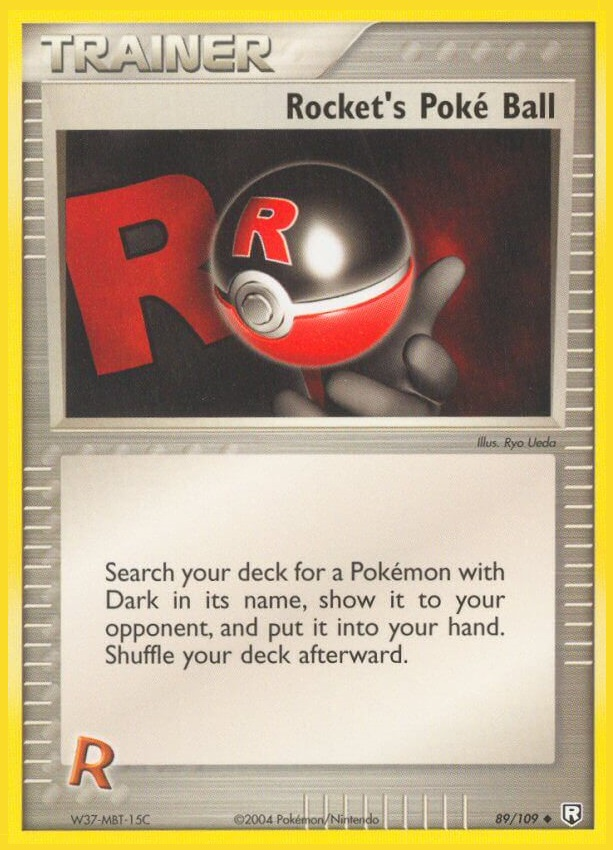
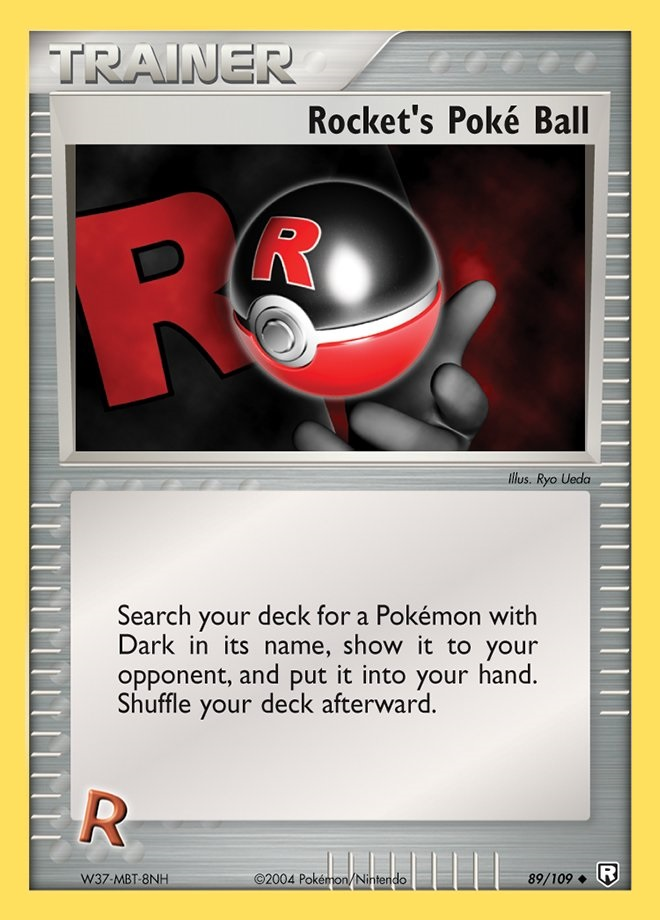
more

diff --git a/major-events/2006/global-nationals-results.html b/major-events/2006/global-nationals-results.html
@@ -219,7 +219,7 @@
         <div class="country-content">
             <ol class='country-indiv'>
                 <h4 style='margin-top: 5px;margin-bottom: 5px;'>Argentina Nationals</h4>
-                <!-- <h4 style='margin-bottom: 15px;font-weight: 500;'>- -</h4> -->
+                <h4 style='margin-bottom: 15px;font-weight: 500;'>June 25</h4>
                 <!-- <h4 style='margin-bottom: 5px;font-weight: 500;'>157 Players</h4> -->
                 <!-- <h4 style='margin-bottom: 15px;font-weight: 500;'>Diamond & Pearl - HS: Unleashed</h4> -->
                 <li class='player-list-hover'>
@@ -278,7 +278,7 @@
         <div class="country-content">
             <ol class='country-indiv'>
                 <h4 style='margin-top: 5px;margin-bottom: 5px;'>Australia Nationals</h4>
-                <!-- <h4 style='margin-bottom: 15px;font-weight: 500;'>- -</h4> -->
+                <h4 style='margin-bottom: 15px;font-weight: 500;'>June 24</h4>
                 <!-- <h4 style='margin-bottom: 5px;font-weight: 500;'>157 Players</h4> -->
                 <!-- <h4 style='margin-bottom: 15px;font-weight: 500;'>Diamond & Pearl - HS: Unleashed</h4> -->
                 <li class='player-list-hover'>
@@ -381,7 +381,7 @@
         <div class="country-content">
             <ol class='country-indiv'>
                 <h4 style='margin-top: 5px;margin-bottom: 5px;'>Belgium Nationals</h4>
-                <!-- <h4 style='margin-bottom: 15px;font-weight: 500;'>- -</h4> -->
+                <h4 style='margin-bottom: 15px;font-weight: 500;'>June 24</h4>
                 <!-- <h4 style='margin-bottom: 5px;font-weight: 500;'>157 Players</h4> -->
                 <!-- <h4 style='margin-bottom: 15px;font-weight: 500;'>Diamond & Pearl - HS: Unleashed</h4> -->
                 <li class='player-list-hover'>
@@ -543,7 +543,7 @@
         <div class="country-content">
             <ol class='country-indiv'>
                 <h4 style='margin-top: 5px;margin-bottom: 5px;'>Chile Nationals</h4>
-                <!-- <h4 style='margin-bottom: 15px;font-weight: 500;'>- -</h4> -->
+                <h4 style='margin-bottom: 15px;font-weight: 500;'>June 24</h4>
                 <!-- <h4 style='margin-bottom: 5px;font-weight: 500;'>157 Players</h4> -->
                 <!-- <h4 style='margin-bottom: 15px;font-weight: 500;'>Diamond & Pearl - HS: Unleashed</h4> -->
                 <li class='player-list-hover'>
@@ -661,7 +661,7 @@
         <div class="country-content">
             <ol class='country-indiv'>
                 <h4 style='margin-top: 5px;margin-bottom: 5px;'>France Nationals</h4>
-                <!-- <h4 style='margin-bottom: 15px;font-weight: 500;'>- -</h4> -->
+                <h4 style='margin-bottom: 15px;font-weight: 500;'>June 4</h4>
                 <!-- <h4 style='margin-bottom: 5px;font-weight: 500;'>157 Players</h4> -->
                 <!-- <h4 style='margin-bottom: 15px;font-weight: 500;'>Diamond & Pearl - HS: Unleashed</h4> -->
                 <li class='player-list-hover'>
@@ -722,7 +722,7 @@
         <div class="country-content">
             <ol class='country-indiv'>
                 <h4 style='margin-top: 5px;margin-bottom: 5px;'>Italy Nationals</h4>
-                <!-- <h4 style='margin-bottom: 15px;font-weight: 500;'>- -</h4> -->
+                <h4 style='margin-bottom: 15px;font-weight: 500;'>June  25</h4>
                 <!-- <h4 style='margin-bottom: 5px;font-weight: 500;'>157 Players</h4> -->
                 <!-- <h4 style='margin-bottom: 15px;font-weight: 500;'>Diamond & Pearl - HS: Unleashed</h4> -->
                 <li class='player-list-hover'>
@@ -899,7 +899,7 @@
         <div class="country-content">
             <ol class='country-indiv'>
                 <h4 style='margin-top: 5px;margin-bottom: 5px;'>Netherlands Nationals</h4>
-                <!-- <h4 style='margin-bottom: 15px;font-weight: 500;'>- -</h4> -->
+                <h4 style='margin-bottom: 15px;font-weight: 500;'>May 28</h4>
                 <!-- <h4 style='margin-bottom: 5px;font-weight: 500;'>157 Players</h4> -->
                 <!-- <h4 style='margin-bottom: 15px;font-weight: 500;'>Diamond & Pearl - HS: Unleashed</h4> -->
                 <li class='player-list-hover'>
@@ -958,7 +958,7 @@
         <div class="country-content">
             <ol class='country-indiv'>
                 <h4 style='margin-top: 5px;margin-bottom: 5px;'>Philippines Nationals</h4>
-                <!-- <h4 style='margin-bottom: 15px;font-weight: 500;'>- -</h4> -->
+                <h4 style='margin-bottom: 15px;font-weight: 500;'>July 29</h4>
                 <!-- <h4 style='margin-bottom: 5px;font-weight: 500;'>157 Players</h4> -->
                 <!-- <h4 style='margin-bottom: 15px;font-weight: 500;'>Diamond & Pearl - HS: Unleashed</h4> -->
                 <li class='player-list-hover'>
@@ -1017,7 +1017,7 @@
         <div class="country-content">
             <ol class='country-indiv'>
                 <h4 style='margin-top: 5px;margin-bottom: 5px;'>Singapore Nationals</h4>
-                <!-- <h4 style='margin-bottom: 15px;font-weight: 500;'>- -</h4> -->
+                <h4 style='margin-bottom: 15px;font-weight: 500;'>June 11</h4>
                 <!-- <h4 style='margin-bottom: 5px;font-weight: 500;'>157 Players</h4> -->
                 <!-- <h4 style='margin-bottom: 15px;font-weight: 500;'>Diamond & Pearl - HS: Unleashed</h4> -->
                 <li class='player-list-hover'>
@@ -1076,7 +1076,7 @@
         <div class="country-content">
             <ol class='country-indiv'>
                 <h4 style='margin-top: 5px;margin-bottom: 5px;'>Sweden Nationals</h4>
-                <!-- <h4 style='margin-bottom: 15px;font-weight: 500;'>- -</h4> -->
+                <h4 style='margin-bottom: 15px;font-weight: 500;'>April 29</h4>
                 <!-- <h4 style='margin-bottom: 5px;font-weight: 500;'>157 Players</h4> -->
                 <!-- <h4 style='margin-bottom: 15px;font-weight: 500;'>Diamond & Pearl - HS: Unleashed</h4> -->
                 <li class='player-list-hover'>
@@ -1135,7 +1135,7 @@
         <div class="country-content">
             <ol class='country-indiv'>
                 <h4 style='margin-top: 5px;margin-bottom: 5px;'>United Kingdom Nationals</h4>
-                <!-- <h4 style='margin-bottom: 15px;font-weight: 500;'>- -</h4> -->
+                <h4 style='margin-bottom: 15px;font-weight: 500;'>June 10</h4>
                 <!-- <h4 style='margin-bottom: 5px;font-weight: 500;'>157 Players</h4> -->
                 <!-- <h4 style='margin-bottom: 15px;font-weight: 500;'>Diamond & Pearl - HS: Unleashed</h4> -->
                 <li class='player-list-hover'>
@@ -1194,7 +1194,7 @@
         <div class="country-content">
             <ol class='country-indiv'>
                 <h4 style='margin-top: 5px;margin-bottom: 5px;'>United Kingdom Nationals</h4>
-                <!-- <h4 style='margin-bottom: 15px;font-weight: 500;'>- -</h4> -->
+                <h4 style='margin-bottom: 15px;font-weight: 500;'>June 10</h4>
                 <!-- <h4 style='margin-bottom: 5px;font-weight: 500;'>157 Players</h4> -->
                 <!-- <h4 style='margin-bottom: 15px;font-weight: 500;'>Diamond & Pearl - HS: Unleashed</h4> -->
                 <li class='player-list-hover'>
@@ -1253,7 +1253,7 @@
         <div class="country-content">
             <ol class='country-indiv'>
                 <h4 style='margin-top: 5px;margin-bottom: 5px;'>United Kingdom Nationals</h4>
-                <!-- <h4 style='margin-bottom: 15px;font-weight: 500;'>- -</h4> -->
+                <h4 style='margin-bottom: 15px;font-weight: 500;'>June 10</h4>
                 <!-- <h4 style='margin-bottom: 5px;font-weight: 500;'>157 Players</h4> -->
                 <!-- <h4 style='margin-bottom: 15px;font-weight: 500;'>Diamond & Pearl - HS: Unleashed</h4> -->
                 <li class='player-list-hover'>

diff --git a/decks-by-era/2018/bkt-ces.html b/decks-by-era/2018/bkt-ces.html
@@ -231,17 +231,22 @@
                     <li><a href='#greninja'>Greninja
                             <img class='gen6-sprite' src='../../assets/sprites-gen6-7/greninja.png' />
                         </a></li>
+                    <li><a href='#hooh-salazzle'>Ho-oh Salazzle
+                            <img class='gen6-sprite' src='../../assets/sprites-gen6-7/ho-oh.png' />
+                            <img class='gen6-sprite' src='../../assets/sprites-gen6-7/salazzle.png' />
+                        </a></li>
                     <li><a href='#mally'>Malamar
                             <img class='gen6-sprite' src='../../assets/sprites-gen6-7/malamar.png' />
                             <img class='gen6-sprite' src='../../assets/sprites-gen6-7/marshadow.png' />
                         </a></li>
-                    <li><a href='#quaza'><p>Rayquaza <span class='italic'>GX</span><span class='builds-num'> 2</span></p>
-                            <img class='gen6-sprite' src='../../assets/sprites-gen6-7/rayquaza.png' />
-                        </a></li>
+                    
                 </ul>
             </div>
             <div class='era-toc-right'>
                 <ul>
+                    <li><a href='#quaza'><p>Rayquaza <span class='italic'>GX</span><span class='builds-num'> 2</span></p>
+                        <img class='gen6-sprite' src='../../assets/sprites-gen6-7/rayquaza.png' />
+                    </a></li>
                     <li><a href='#ultrabb'>Ultra Beasts
                             <img class='gen6-sprite' src='../../assets/sprites-gen6-7/naganadel.png' />
                             <img class='gen6-sprite' src='../../assets/sprites-gen6-7/stakataka.png' />
@@ -984,6 +989,87 @@
         </div>
         <div class='deck-description '>
             <p>Source: Martin Janouš - Top 16 Worlds</p>
+            <!-- <p>Description coming soon...</p> -->
+        </div>
+        <br>
+
+        <h3 class='format' id='hooh-salazzle'>Ho-oh Salazzle</h3>
+        <div class='deck-box ' style='background-image:url(../../../assets/fire-bg.png);'>
+            <div class='pokemon-card2'>
+                <img class='pok-card-small2 break-pokemon' loading='lazy' src='../../assets/cards/2018-17/ho-oh-gx.png'>
+                <img class='num-2' alt='number' loading='lazy' src='../../assets/04.png'>
+            </div>
+            <div class='pokemon-card2'>
+                <img class='pok-card-small2 break-pokemon' loading='lazy' src='../../assets/cards/2018-17/salazzle-gx.png'>
+                <img class='num-2' alt='number' loading='lazy' src='../../assets/02.png'>
+            </div>
+            <div class='pokemon-card2'>
+                <img class='pok-card-small2 break-pokemon' loading='lazy' src='../../assets/cards/2018-17/salandit-live-coal.png'>
+                <img class='num-2' alt='number' loading='lazy' src='../../assets/02.png'>
+            </div>
+            <div class='pokemon-card2'>
+                <img class='pok-card-small2 break-pokemon' loading='lazy' src='../../assets/cards/2018-17/turtonator-gx.png'>
+                <img class='num-2' alt='number' loading='lazy' src='../../assets/01.png'>
+            </div>
+            <div class='pokemon-card2'>
+                <img class='pok-card-small2 break-pokemon' loading='lazy' src='../../assets/cards/2018-17/tapu-lele-gx.png'>
+                <img class='num-2' alt='number' loading='lazy' src='../../assets/04.png'>
+            </div>
+            <div class='pokemon-card2'>
+                <img class='pok-card-small2 break-pokemon' loading='lazy' src='../../assets/cards/2018-17/tapu-koko-flying-flip.png'>
+                <img class='num-2' alt='number' loading='lazy' src='../../assets/01.png'>
+            </div>
+            <div class='pokemon-card2'>
+                <img class='pok-card-small2 break-pokemon' loading='lazy' src='../../assets/cards/2018-17/shining-lugia.png'>
+                <img class='num-2' alt='number' loading='lazy' src='../../assets/01.png'>
+            </div>
+            <div class='pokemon-card2'>
+                <img class='pok-card-small2 break-pokemon' loading='lazy' src='../../assets/cards/2018-17/cynthia.png'>
+                <img class='num-2' alt='number' loading='lazy' src='../../assets/04.png'>
+            </div>
+            <div class='pokemon-card2'>
+                <img class='pok-card-small2 break-pokemon' loading='lazy' src='../../assets/cards/2018-17/kiawe.png'>
+                <img class='num-2' alt='number' loading='lazy' src='../../assets/04.png'>
+            </div>
+            <div class='pokemon-card2'>
+                <img class='pok-card-small2 break-pokemon' loading='lazy' src='../../assets/cards/2018-17/guzma.png'>
+                <img class='num-2' alt='number' loading='lazy' src='../../assets/04.png'>
+            </div>
+            <div class='pokemon-card2'>
+                <img class='pok-card-small2 break-pokemon' loading='lazy' src='../../assets/cards/2018-17/ultra-ball.png'>
+                <img class='num-2' alt='number' loading='lazy' src='../../assets/04.png'>
+            </div>
+            <div class='pokemon-card2'>
+                <img class='pok-card-small2 break-pokemon' loading='lazy' src='../../assets/cards/2018-17/nest-ball.png'>
+                <img class='num-2' alt='number' loading='lazy' src='../../assets/04.png'>
+            </div>
+            <div class='pokemon-card2'>
+                <img class='pok-card-small2 break-pokemon' loading='lazy' src='../../assets/cards/2018-17/acro-bike.png'>
+                <img class='num-2' alt='number' loading='lazy' src='../../assets/03.png'>
+            </div>
+            <div class='pokemon-card2'>
+                <img class='pok-card-small2 break-pokemon' loading='lazy' src='../../assets/cards/2018-17/switch.png'>
+                <img class='num-2' alt='number' loading='lazy' src='../../assets/02.png'>
+            </div>
+            <div class='pokemon-card2'>
+                <img class='pok-card-small2 break-pokemon' loading='lazy' src='../../assets/cards/2018-17/escape-rope.png'>
+                <img class='num-2' alt='number' loading='lazy' src='../../assets/01.png'>
+            </div>
+            <div class='pokemon-card2'>
+                <img class='pok-card-small2 break-pokemon' loading='lazy' src='../../assets/cards/2018-17/choice-band.png'>
+                <img class='num-2' alt='number' loading='lazy' src='../../assets/03.png'>
+            </div>
+            <div class='pokemon-card2'>
+                <img class='pok-card-small2 break-pokemon' loading='lazy' src='../../assets/cards/2018-17/wishful-baton.png'>
+                <img class='num-2' alt='number' loading='lazy' src='../../assets/03.png'>
+            </div>
+            <div class='pokemon-card2'>
+                <img class='pok-card-small2 break-pokemon' loading='lazy' src='../../assets/cards/energy/energy-fire.png'>
+                <img class='num-2' alt='number' loading='lazy' src='../../assets/13.png'>
+            </div>
+        </div>
+        <div class='deck-description '>
+            <p>Source: Anthony Bruno - Top 64 Philadelphia Regionals</p>
             <!-- <p>Description coming soon...</p> -->
         </div>
         <br>

diff --git a/decks-by-era/2006/hl-hp.html b/decks-by-era/2006/hl-hp.html
@@ -704,8 +704,8 @@
                 <img class='num-2' alt='number' loading='lazy' src='../../assets/02.png'>
             </div>
             <div class='pokemon-card2'>
-                <img class='pok-card-small2 zoomed' loading='lazy'
-                    src='../../assets/cards/2004-2006/rockets-poke-ball.png'>
+                <img class='pok-card-small2 zoomed radius-card' loading='lazy'
+                    src='../../assets/cards/2004-2006/tr.089.rockets_poke_ball.jpg'>
                 <img class='num-2' alt='number' loading='lazy' src='../../assets/01.png'>
             </div>
             <div class='pokemon-card2'>
@@ -819,8 +819,8 @@
                 <img class='num-2' alt='number' loading='lazy' src='../../assets/02.png'>
             </div>
             <div class='pokemon-card2'>
-                <img class='pok-card-small2 zoomed' loading='lazy'
-                    src='../../assets/cards/2004-2006/rockets-poke-ball.png'>
+                <img class='pok-card-small2 zoomed radius-card' loading='lazy'
+                    src='../../assets/cards/2004-2006/tr.089.rockets_poke_ball.jpg'>
                 <img class='num-2' alt='number' loading='lazy' src='../../assets/02.png'>
             </div>
             <div class='pokemon-card2'>
@@ -1129,8 +1129,8 @@
                 <img class='num-2' alt='number' loading='lazy' src='../../assets/04.png'>
             </div>
             <div class='pokemon-card2'>
-                <img class='pok-card-small2 zoomed' loading='lazy'
-                    src='../../assets/cards/2004-2006/rockets-poke-ball.png'>
+                <img class='pok-card-small2 zoomed radius-card' loading='lazy'
+                    src='../../assets/cards/2004-2006/tr.089.rockets_poke_ball.jpg'>
                 <img class='num-2' alt='number' loading='lazy' src='../../assets/04.png'>
             </div>
             <div class='pokemon-card2'>

diff --git a/major-events/2005/05-nats.js b/major-events/2005/05-nats.js
@@ -376,8 +376,9 @@ let juniors = [
                 numImg: '../../assets/01.png',
             },
             {
-                cardImg: '../../assets/cards/2004-2006/rockets-poke-ball.png',
+                cardImg: '../../assets/cards/2004-2006/tr.089.rockets_poke_ball.jpg',
                 numImg: '../../assets/04.png',
+                radiusCard: true
             },
             {
                 cardImg: '../../assets/cards/2004-2006/dual-ball-old.png',
@@ -735,8 +736,9 @@ let fiveEvent = [
                 numImg: '../../assets/02.png'
             },
             {
-                cardImg: '../../assets/cards/2004-2006/rockets-poke-ball.png',
-                numImg: '../../assets/02.png'
+                cardImg: '../../assets/cards/2004-2006/tr.089.rockets_poke_ball.jpg',
+                numImg: '../../assets/02.png',
+                radiusCard: true
             },
             {
                 cardImg: '../../assets/cards/2004-2006/pokemon-retriever.png',
@@ -906,8 +908,9 @@ let sixEvent = [
                 numImg: '../../assets/02.png'
             },
             {
-                cardImg: '../../assets/cards/2004-2006/rockets-poke-ball.png',
-                numImg: '../../assets/02.png'
+                cardImg: '../../assets/cards/2004-2006/tr.089.rockets_poke_ball.jpg',
+                numImg: '../../assets/02.png',
+                radiusCard: true
             },
             {
                 cardImg: '../../assets/cards/2004-2006/rare-candy-e-reader.png',

diff --git a/worlds/2006/2006-worlds.js b/worlds/2006/2006-worlds.js
@@ -494,7 +494,7 @@ let masters = [
         numImg: '../../assets/04.png'
       },
       {
-        cardImg: '../../assets/cards/2004-2006/rockets-poke-ball.png',
+        cardImg: '../../assets/cards/2004-2006/tr.089.rockets_poke_ball.jpg',
         numImg: '../../assets/04.png'
       },
       {
@@ -1118,7 +1118,7 @@ let masters = [
         numImg: '../../assets/02.png'
       },
       {
-        cardImg: '../../assets/cards/2004-2006/rockets-poke-ball.png',
+        cardImg: '../../assets/cards/2004-2006/tr.089.rockets_poke_ball.jpg',
         numImg: '../../assets/01.png'
       },
       {
@@ -1420,7 +1420,7 @@ let masters = [
         numImg: '../../assets/04.png'
       },
       {
-        cardImg: '../../assets/cards/2004-2006/rockets-poke-ball.png',
+        cardImg: '../../assets/cards/2004-2006/tr.089.rockets_poke_ball.jpg',
         numImg: '../../assets/04.png'
       },
       {
@@ -1776,7 +1776,7 @@ let masters = [
         numImg: '../../assets/01.png'
       },
       {
-        cardImg: '../../assets/cards/2004-2006/rockets-poke-ball.png',
+        cardImg: '../../assets/cards/2004-2006/tr.089.rockets_poke_ball.jpg',
         numImg: '../../assets/01.png'
       },
       {

diff --git a/decks-by-era/2005/rs-em.html b/decks-by-era/2005/rs-em.html
@@ -2461,7 +2461,7 @@
                 <img class='num-2' alt='number' loading='lazy' src='../../assets/01.png'>
             </div>
             <div class='pokemon-card2'>
-                <img class='pok-card-small2 zoomed' loading='lazy' src='../../assets/cards/2004-2006/rockets-poke-ball.png'>
+                <img class='pok-card-small2 zoomed radius-card' loading='lazy' src='../../assets/cards/2004-2006/tr.089.rockets_poke_ball.jpg'>
                 <img class='num-2' alt='number' loading='lazy' src='../../assets/01.png'>
             </div>
             <div class='pokemon-card2'>
@@ -2773,7 +2773,7 @@
                 <img class='num-2' alt='number' loading='lazy' src='../../assets/02.png'>
             </div>
             <div class='pokemon-card2'>
-                <img class='pok-card-small2  zoomed' loading='lazy' src='../../assets/cards/2004-2006/rockets-poke-ball.png'>
+                <img class='pok-card-small2 radius-card zoomed' loading='lazy' src='../../assets/cards/2004-2006/tr.089.rockets_poke_ball.jpg'>
                 <img class='num-2' alt='number' loading='lazy' src='../../assets/02.png'>
             </div>
             <div class='pokemon-card2'>

diff --git a/archive-updates/all.html b/archive-updates/all.html
@@ -175,8 +175,9 @@
                     <p>• <a href='../decks-by-era/1999/bs-fossil#arcmar' target="_blank">1999 BS-FO</a> Magmar Arcanine (Build 1) - Jason Klaczynski</p>
                     <p>• <a href='../decks-by-era/1999/bs-fossil#scyther' target="_blank">1999 BS-FO</a> Scyther Hitmonchan - Jason Klaczynski</p>
                     <p>• <a href='../decks-by-era/1999/bs-fossil#magchanduo' target="_blank">1999 BS-FO</a> Magmar Hitmonchan - Jason Klaczynski</p>
-                    <p>• <a href='../decks-by-era/2008/hp-md.html#feonortar' target="_blank">2008 HP-MD</a> Magmortar Leafeon (Build 2)</p>
+                    <p>• <a href='../decks-by-era/2008/hp-md#feonortar' target="_blank">2008 HP-MD</a> Magmortar Leafeon (Build 2)</p>
                     <p>• <a href='../decks-by-era/2018/bkt-fli#gourgeist' target="_blank">2018 BKT-FLI</a> Gourgeist</p>
+                    <p>• <a href='../decks-by-era/2018/bkt-ces#hooh-salazzle' target="_blank">2018 BKT-CES</a> Ho-oh Salazzle</p>
                     <p>• <a href='../decks-by-era/2019/sum-teu#dark-ninetales' target="_blank">2019 SUM-TEU</a> Dark Alolan Ninetales</p>
 
                     <br>

diff --git a/major-events/2006/06-nats.js b/major-events/2006/06-nats.js
@@ -302,8 +302,9 @@ let juniors = [
               numImg: '../../assets/02.png'
             },
             {
-              cardImg: '../../assets/cards/2004-2006/rockets-poke-ball.png',
-              numImg: '../../assets/02.png'
+              cardImg: '../../assets/cards/2004-2006/tr.089.rockets_poke_ball.jpg',
+              numImg: '../../assets/02.png',
+              radiusCard: true
             },
             {
               cardImg: '../../assets/cards/2004-2006/ancient-tech-machine-rock.png',

diff --git a/worlds/2005/2005-worlds.js b/worlds/2005/2005-worlds.js
@@ -960,7 +960,7 @@ let masters = [
         numImg: '../../assets/01.png'
       },
       {
-        cardImg: '../../assets/cards/2004-2006/rockets-poke-ball.png',
+        cardImg: '../../assets/cards/2004-2006/tr.089.rockets_poke_ball.jpg',
         numImg: '../../assets/01.png'
       },
       {
